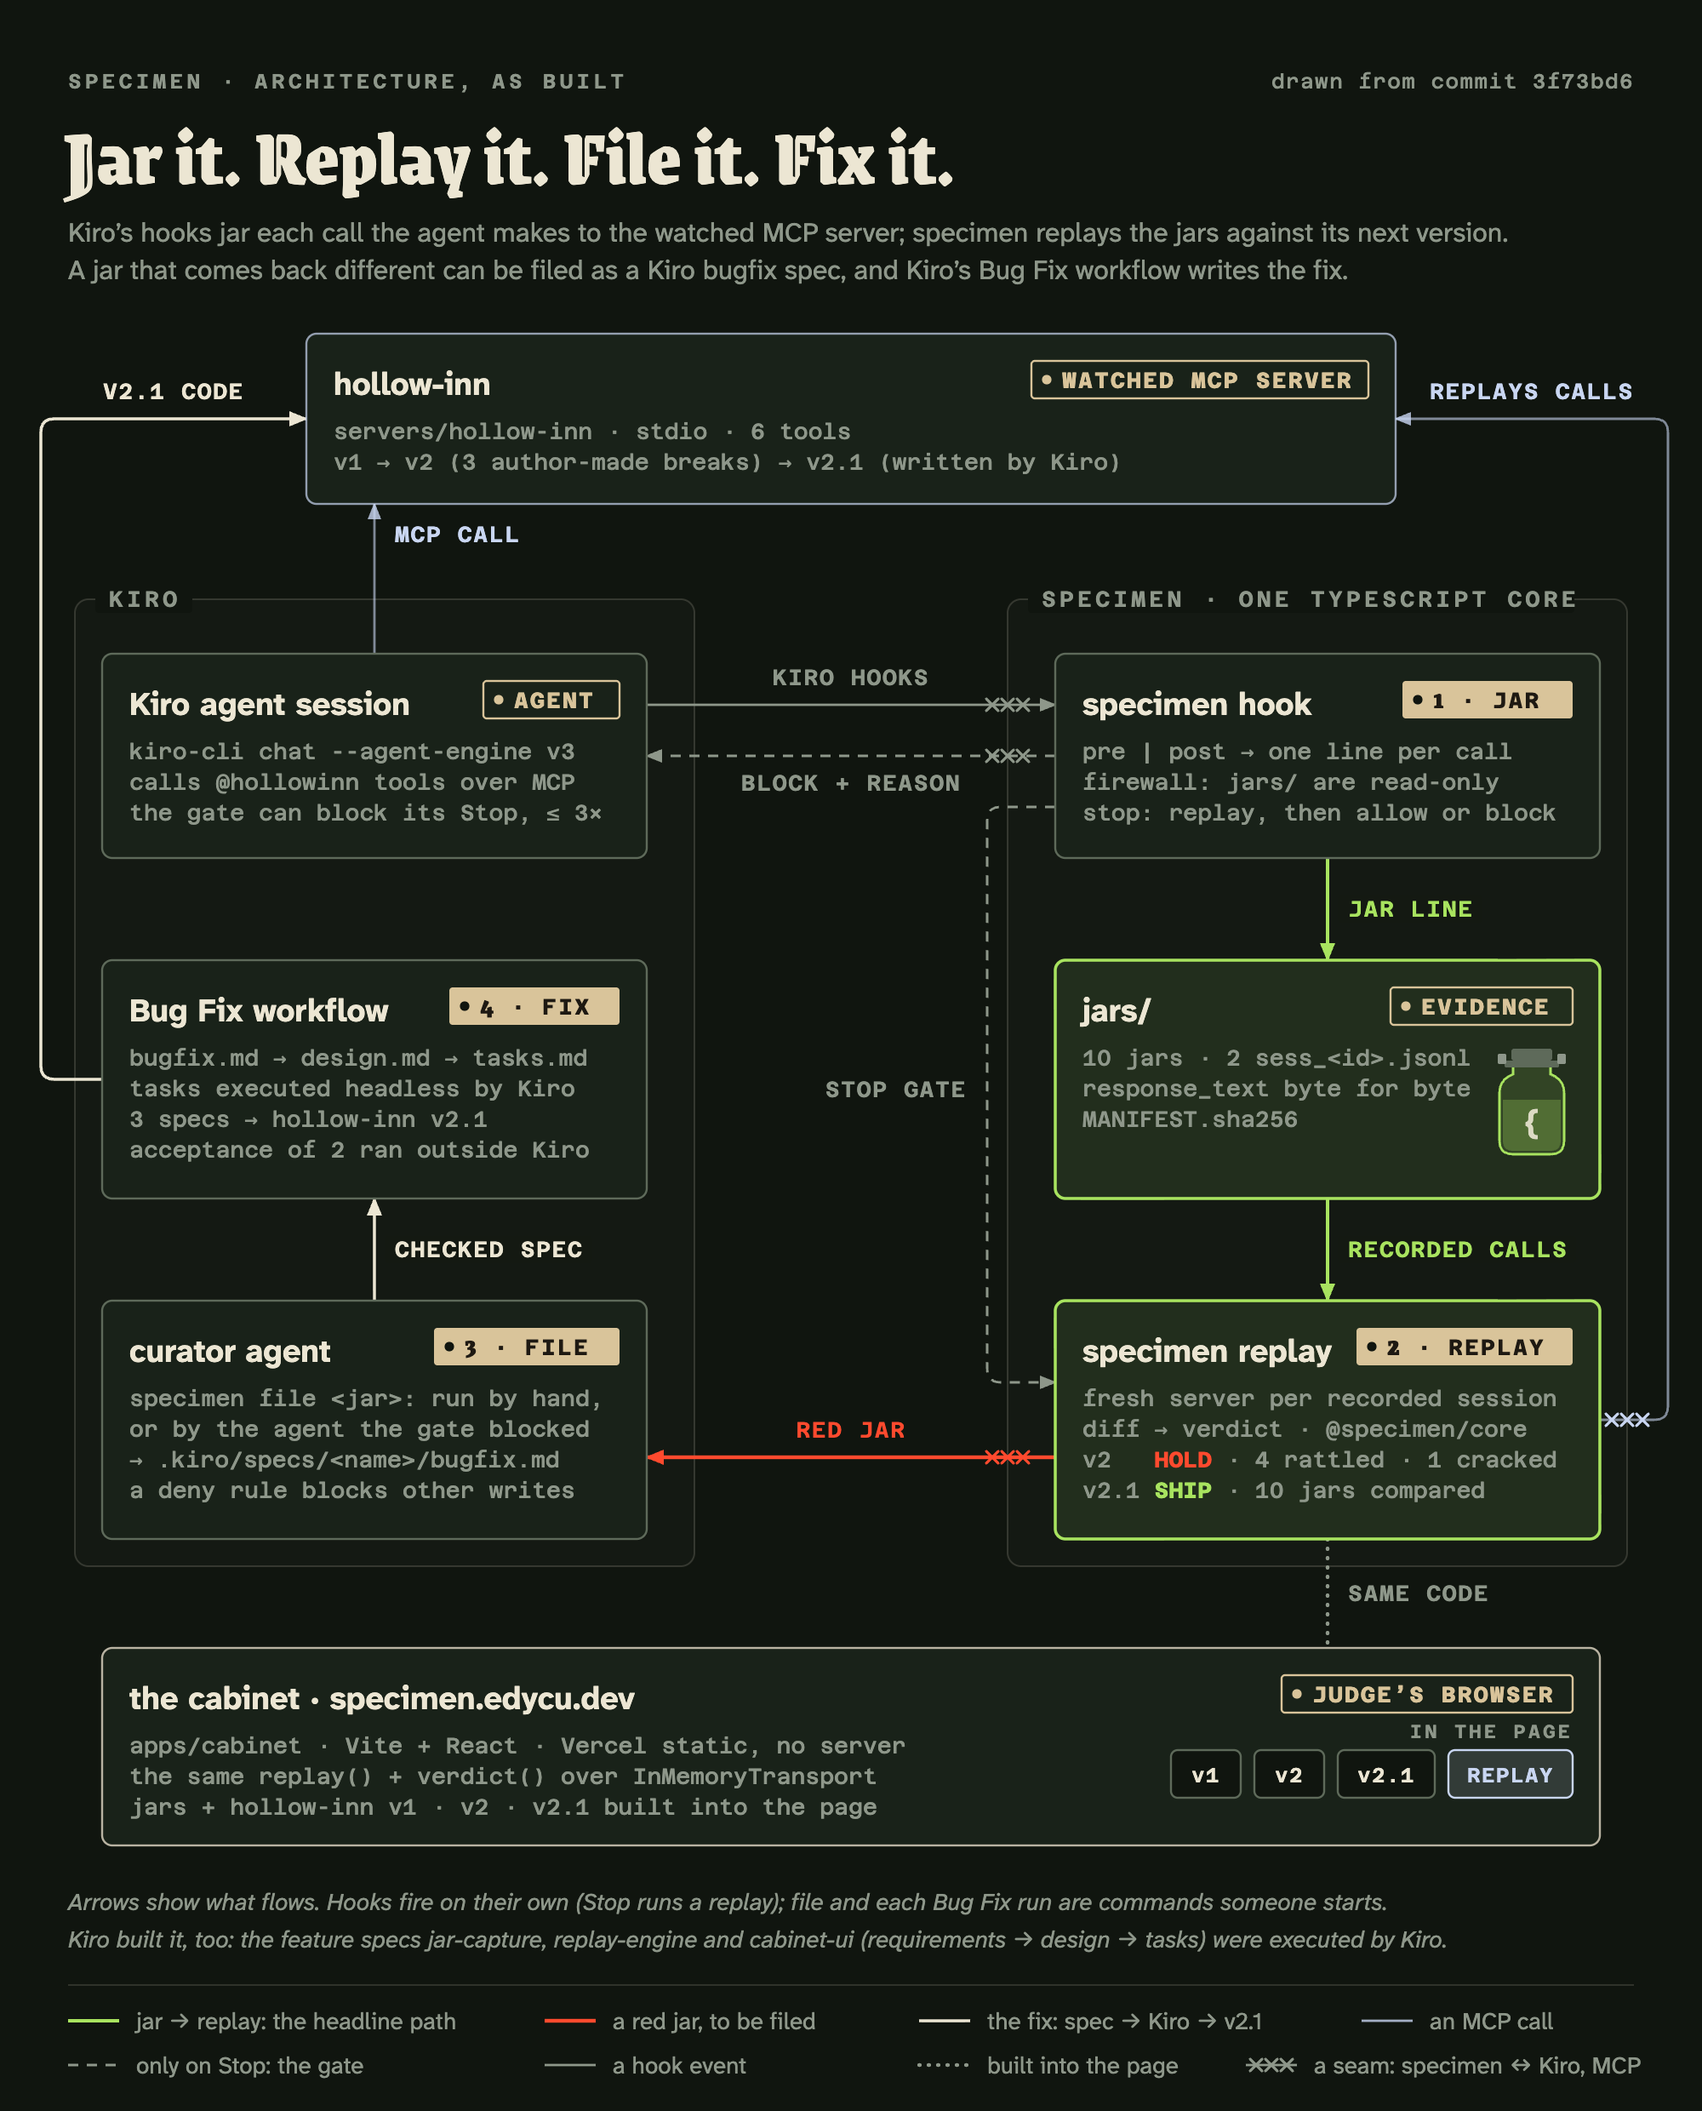
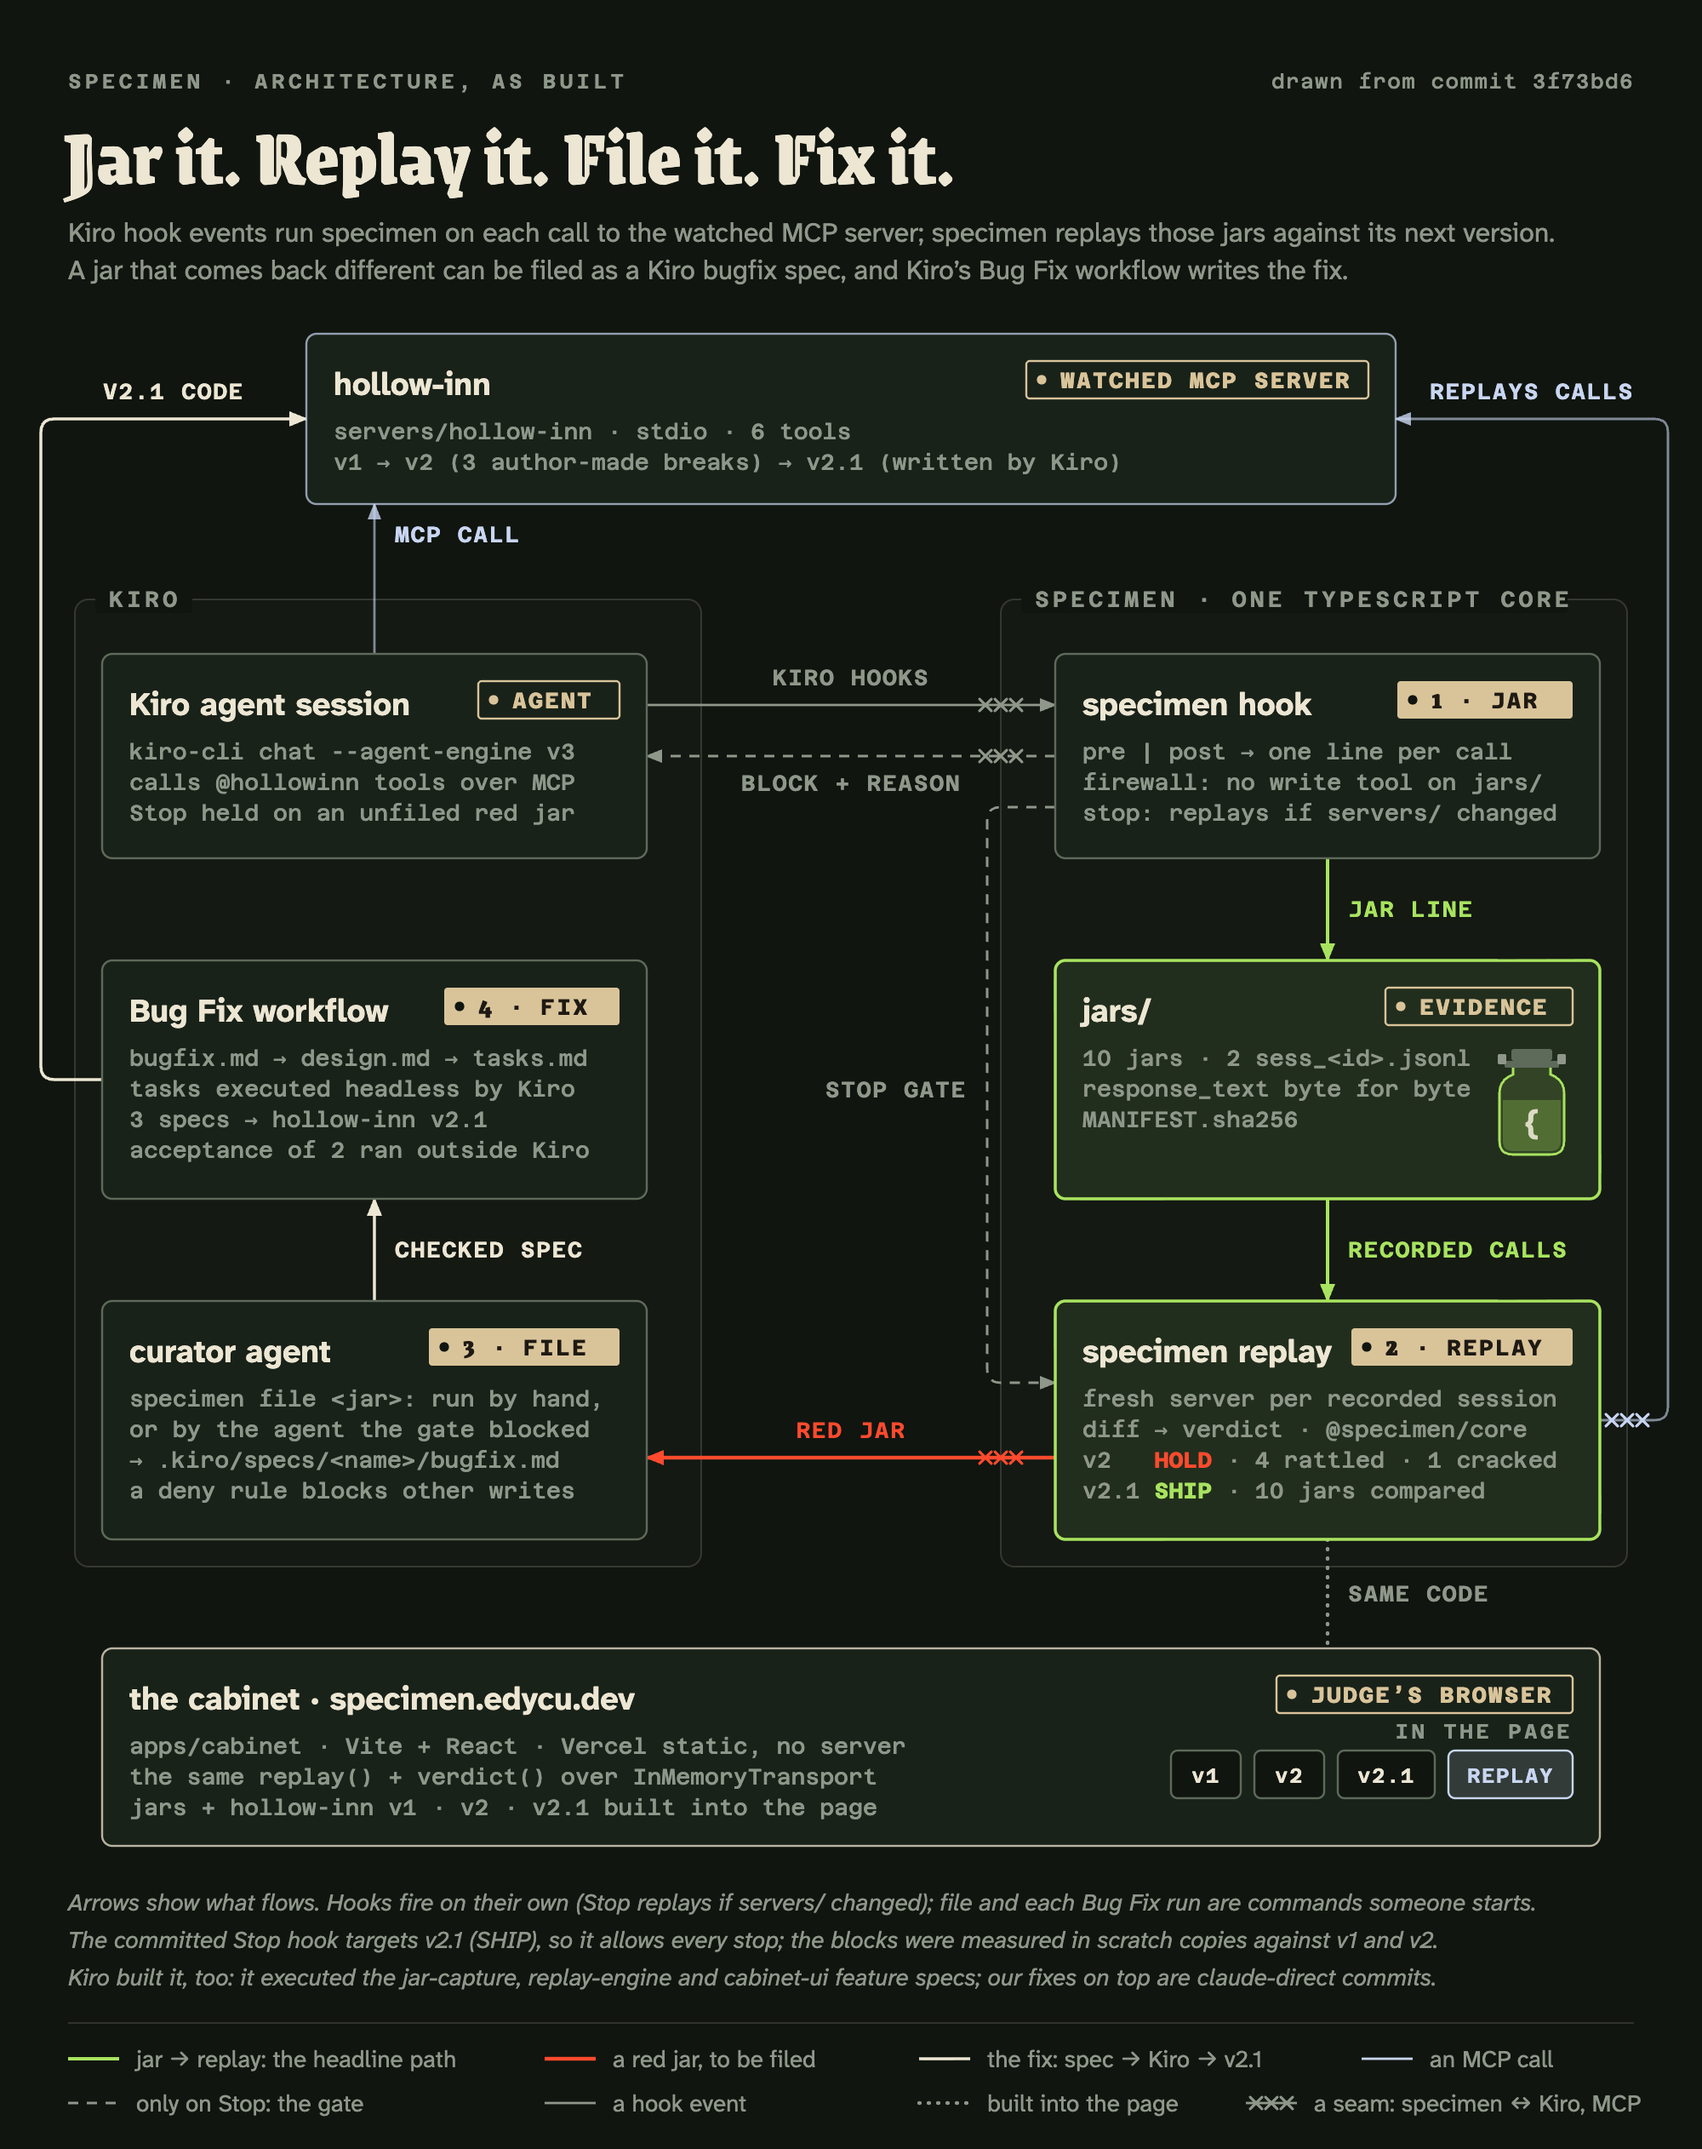
docs: architecture figure QA r3 — conditional Stop replay, write-tool firewall, hook events run specimen, committed Stop hook allows every stop
Every line re-checked against the code: the Stop hook replays only if servers/ changed and holds the turn on an
unfiled red jar; the firewall matches Kiro's write tool; the committed hook targets v2.1 (SHIP), the blocks were
measured in scratch copies; our fixes on top of Kiro's feature-spec work are claude-direct commits.

diff --git a/README.md b/README.md
@@ -54,10 +54,10 @@ the v2 server while 5 of the 10 recorded calls come back different.
 ## 🏗 Architecture & Tech Stack
 
 <p align="center">
-  <img src="docs/architecture.png" width="100%" alt="specimen architecture, as built. A Kiro agent session (kiro-cli, agent engine v3) calls the hollow-inn MCP server. Kiro's PreToolUse and PostToolUse hooks run specimen hook, which appends one line per call to jars/ (10 jars in 2 session files, response_text byte for byte, MANIFEST.sha256). specimen replay replays the jars against a fresh server per recorded session: v2 HOLD, 4 rattled, 1 cracked; v2.1 SHIP, 10 jars compared. A red jar is filed with specimen file (run by hand, or by the agent the Stop gate blocked): the Kiro curator agent writes .kiro/specs/name/bugfix.md; once check-spec passes, a separate headless prompt runs Kiro's Bug Fix workflow, which wrote hollow-inn v2.1. On Stop, the hook replays and can block the agent's turn with a reason. The judge's browser runs the same replay and verdict code in the cabinet at specimen.edycu.dev, a static Vercel page with the jars and hollow-inn v1, v2 and v2.1 built in.">
+  <img src="docs/architecture.png" width="100%" alt="specimen architecture, as built. A Kiro agent session (kiro-cli, agent engine v3) calls the hollow-inn MCP server. Kiro's PreToolUse and PostToolUse hook events run specimen hook, which appends one line per call to jars/ (10 jars in 2 session files, response_text byte for byte, MANIFEST.sha256). specimen replay replays the jars against a fresh server per recorded session: v2 HOLD, 4 rattled, 1 cracked; v2.1 SHIP, 10 jars compared. A red jar is filed with specimen file (run by hand, or by the agent the Stop gate blocked): the Kiro curator agent writes .kiro/specs/name/bugfix.md; once check-spec passes, a separate headless prompt runs Kiro's Bug Fix workflow, which wrote hollow-inn v2.1. On Stop, if servers/ changed, the hook replays and holds the agent's turn on an unfiled red jar (the committed hook targets v2.1, so it allows every stop; the blocks were measured in scratch copies). The judge's browser runs the same replay and verdict code in the cabinet at specimen.edycu.dev, a static Vercel page with the jars and hollow-inn v1, v2 and v2.1 built in.">
 </p>
 
-The loop in one figure, drawn from the code as built: Kiro's hooks jar each call, `specimen replay` runs the jars against the next server version, a red jar can be filed as a Kiro bugfix spec (`specimen file`), and Kiro's Bug Fix workflow writes the fix. Contracts and file names: [`ARCHITECTURE.md`](ARCHITECTURE.md).
+The loop in one figure, drawn from the code as built: Kiro hook events run specimen on each call, `specimen replay` runs the jars against the next server version, a red jar can be filed as a Kiro bugfix spec (`specimen file`), and Kiro's Bug Fix workflow writes the fix. Contracts and file names: [`ARCHITECTURE.md`](ARCHITECTURE.md).
 
 | Part | What | Tech |
 |---|---|---|
